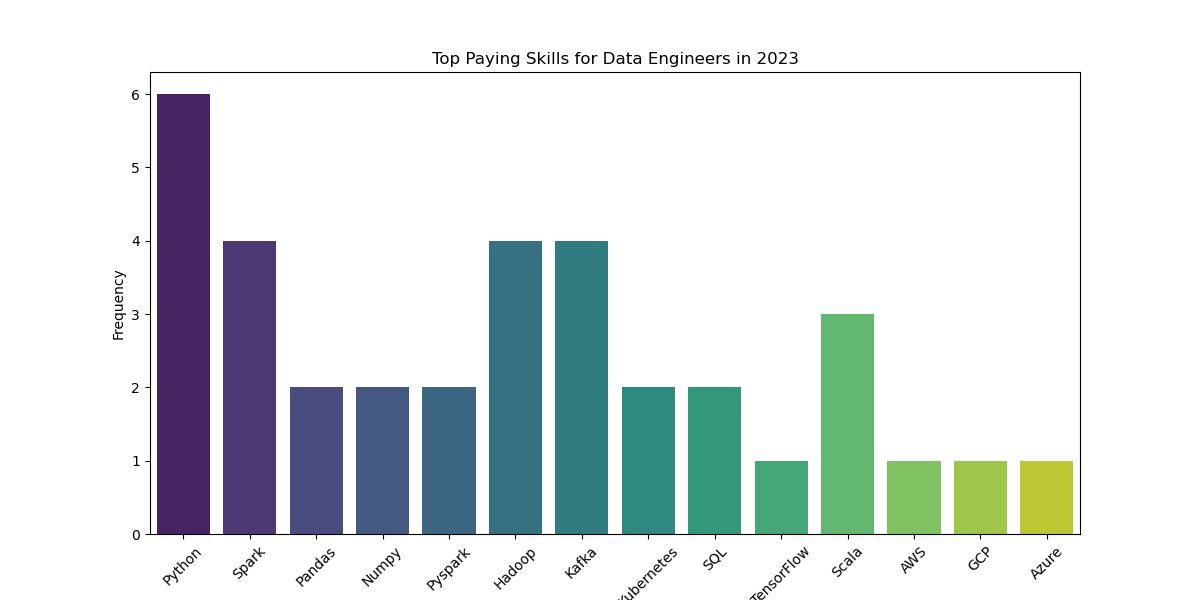
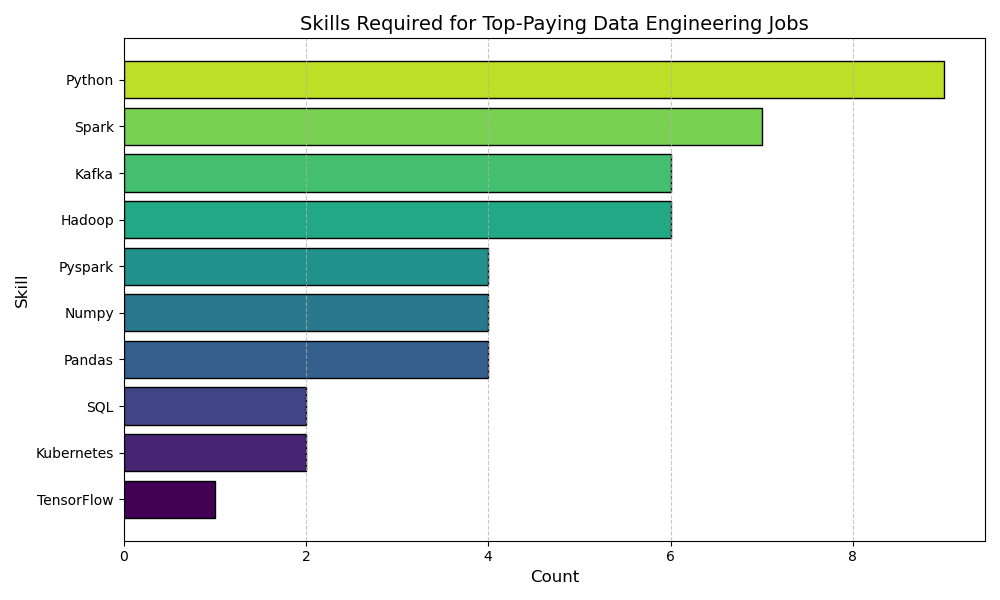
first project

diff --git a/README.md b/README.md
@@ -68,5 +68,57 @@ Roles like **Staff Data Engineer and Principal Data Engineer at Signify Technolo
  **Meta’s Data Engineering Manager** role completes the picture at **$242,000**.
 ![top paying data engineer jobs](Project/figures/top10_paying_jobs.png)
 *This classic gradient bar chart highlights the top-paying roles for data engineers in 2023; generated by Microsoft Copilot*
+
+### 2.Skills for Top Paying Jobs
+To understand what skills are required for the top-paying jobs, I joined the job postings with the skills data, providing insights into what employers value for high-compensation roles.
+
+``` sql
+WITH job_information AS (
+SELECT 
+    job_title_short,
+    job_title,
+    salary_year_avg,
+    company_dim.name,
+    job_id
+
+FROM
+    job_postings_fact
+
+LEFT JOIN company_dim ON job_postings_fact.company_id=company_dim.company_id
+
+WHERE
+    job_title_short='Data Engineer' AND
+    job_work_from_home = TRUE AND 
+    job_schedule_type= 'Full-time'AND
+    salary_year_avg IS NOT NULL
+
+ORDER BY 
+    salary_year_avg DESC
+limit 10
+)
+
+
+SELECT
+    job_information.*,
+    skills_dim.skills
+FROM 
+    job_information
+
+INNER JOIN skills_job_dim ON job_information.job_id = skills_job_dim.job_id
+INNER JOIN skills_dim ON skills_job_dim.skill_id = skills_dim.skill_id
+ORDER BY
+    salary_year_avg DESC;
+```
+In the high-stakes world of data engineering, specific skills pave the way to top salaries.
+
+**Python** appears ubiquitously among the highest-paying roles, underscoring its critical importance.
+
+ **Spark and Hadoop** are indispensable for big data processing, essential for senior roles like the Director of Engineering - Data Platform at Twitch.
+ 
+  Mastery of **cloud technologies** such as **Kubernetes and AWS** marks the shift towards cloud-based infrastructures, enhancing the demand for these skills.
+
+  ![Top Paying Skills](Project\figures\top_paying_skills(frequncy).png)
+  *Bar graph visualizing the count of skills for the top 10 paying jobs for data Engineer; Copilot generated this graph from my SQL query results*
+
 # What I Learned
 # Conclusions
